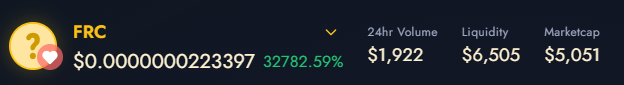
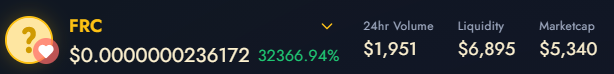
Add files via upload

diff --git a/index.html b/index.html
@@ -170,7 +170,7 @@
       <br>
         <p style="color: lightgreen;" id="p1">Total Supply:     $226,142,246,534</p>
         <p style="color: lightgreen;" id="p2">Token Type: BEp-20</p>
-        <p style="color: lightgreen;" id="p2">Liquidity:  $6,500 </p>
+        <p style="color: lightgreen;" id="p2">Liquidity:  $6,895 </p>
         <p style="color: lightgreen;" id="p3">Token Adress: Releasing once enough liquidity is raised and locked</p>
         <p style="color: lightgreen;" id="p3">Listed Platforms when launched: Panckake Swap, BoggedFinance, Poocoins </p>
    
@@ -193,7 +193,7 @@ exhange Platforms.</h7>
 <h3 style="color: lightblue;" > Progress & Updates: </h3>
 <img  class="shop-item-image" src="downarrow.PNG" width="200" height="25">
 <br>
-<h7 style="color: lightblue;">Forcecoin Has been developed and tested. 5K liquidity has been raised. We are officially in the marketing phase</h7>
+<h7 style="color: lightblue;">Forcecoin is fully developed and tested. Liquidity goal is reached. We are officially in the marketing phase</h7>
 <br>
 <br>
 <img  class="shop-item-image" src="uparrow.PNG" width="200" height="25">
